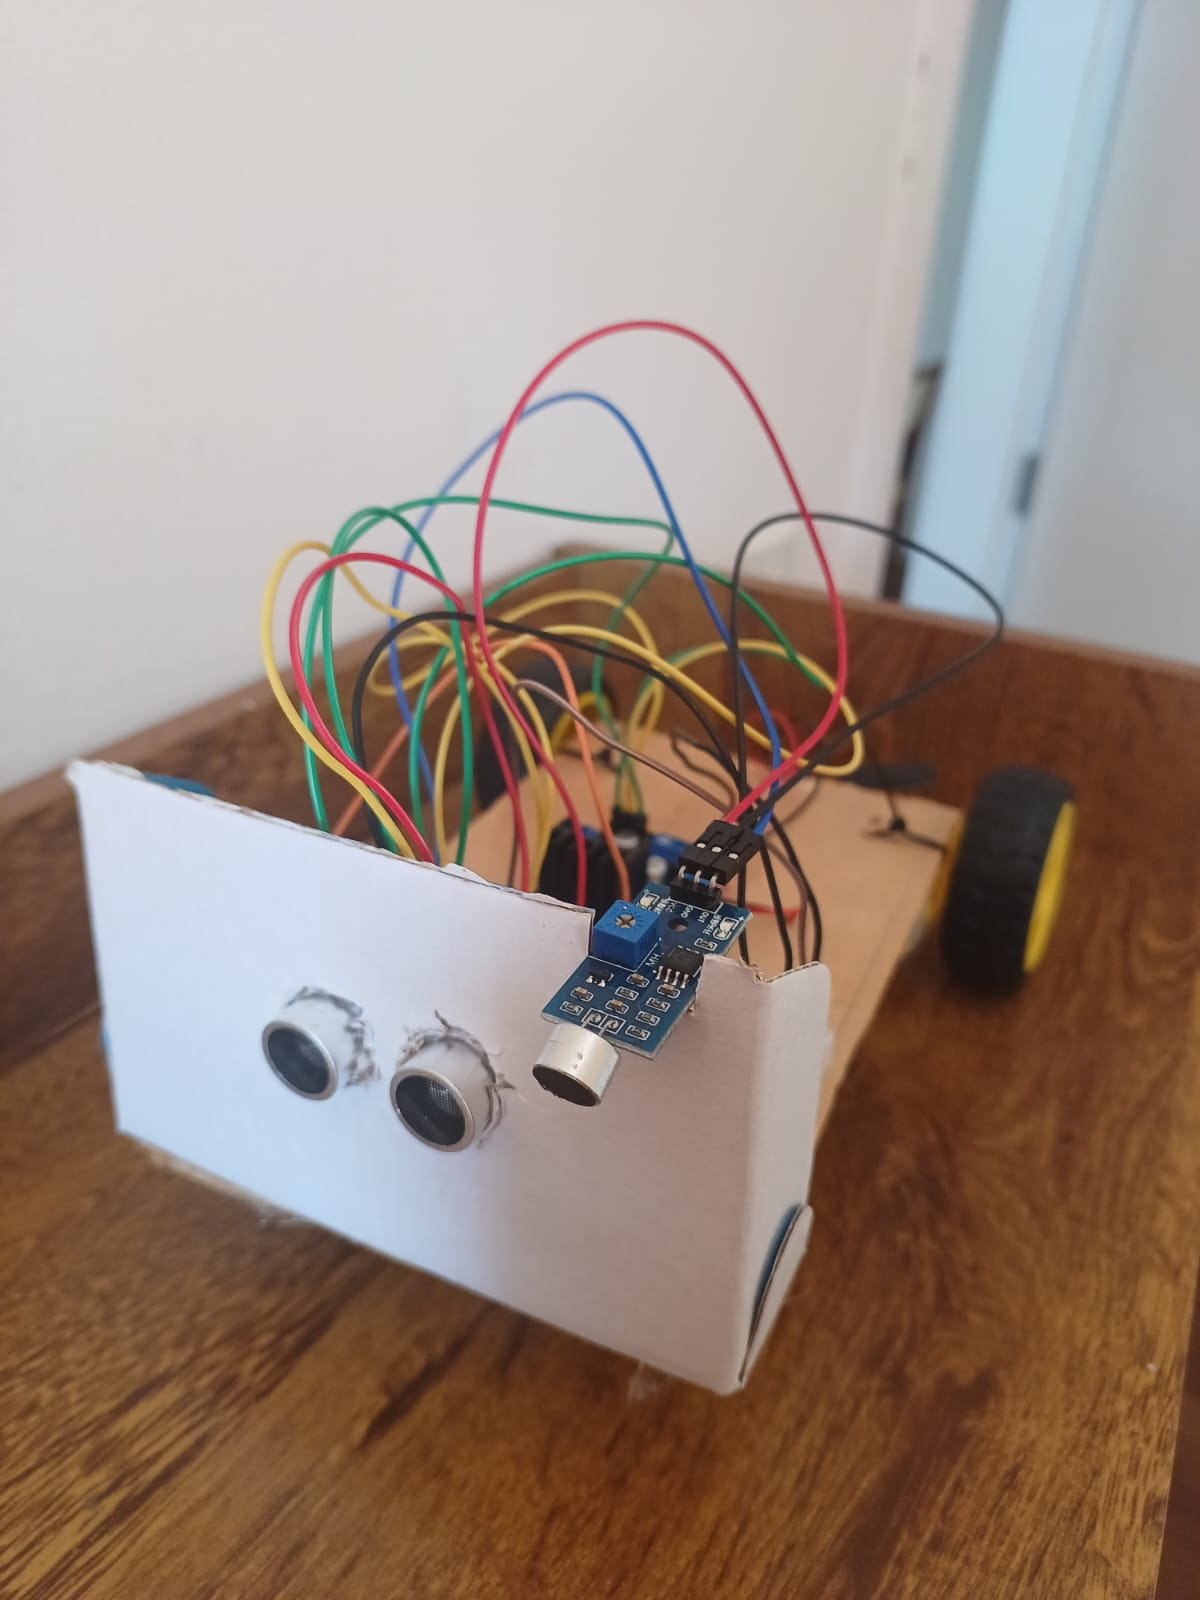
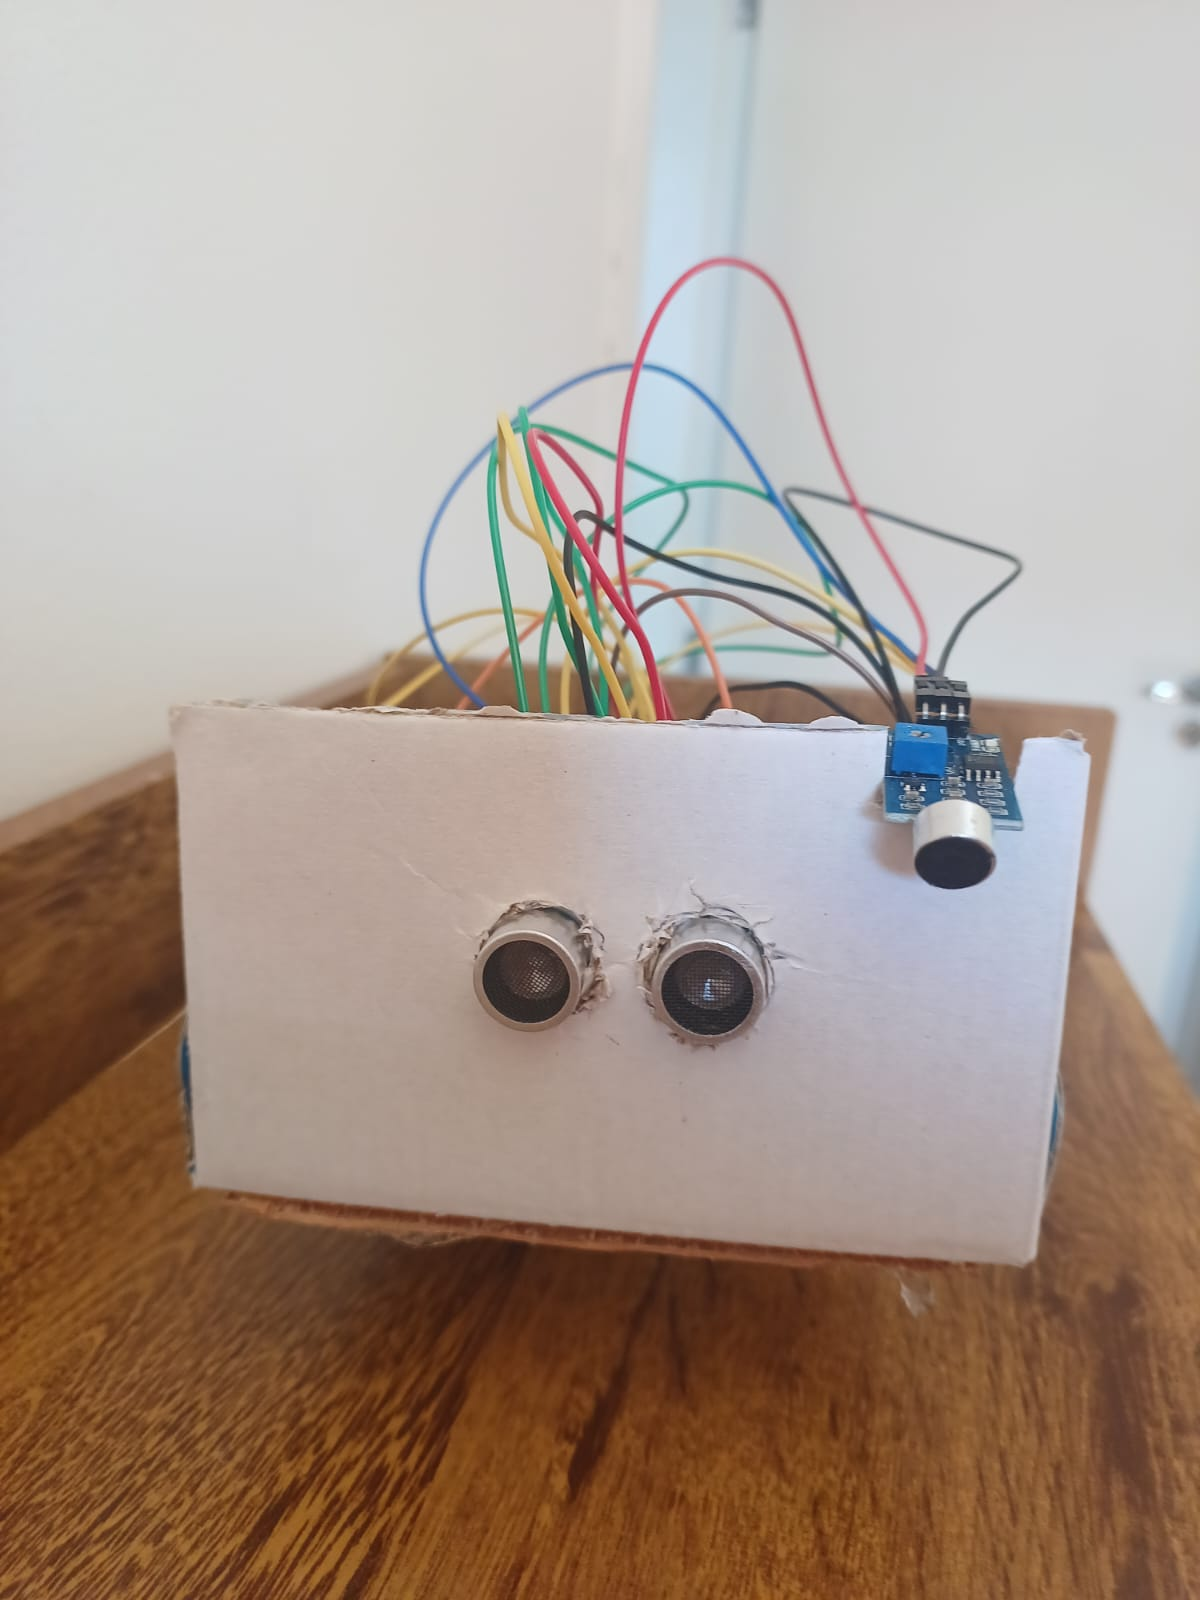
Atualização do README.md

diff --git a/README.md b/README.md
@@ -6,6 +6,10 @@ Tudo começa com uma ideia bem simples: um robô que apenas anda em linha reta e
 <div style="display: flex">
     <img  src="docs/img/pinocch-io-frontal.jpeg" alt="Pinocch-IO Protótipo (frontal)"
     width="200">
+    <img  src="docs/img/pinocch-io.jpeg" alt="Pinocch-IO Protótipo (frontal)"
+    width="200">
+    <img  src="docs/img/pinocch-io-lateral.jpeg" alt="Pinocch-IO Protótipo (frontal)"
+    width="200">
     <img  src="docs/img/pinocch-io-posterior.jpeg" alt="Pinocch-IO Protótipo (frontal)"
     width="200">
 </div>
